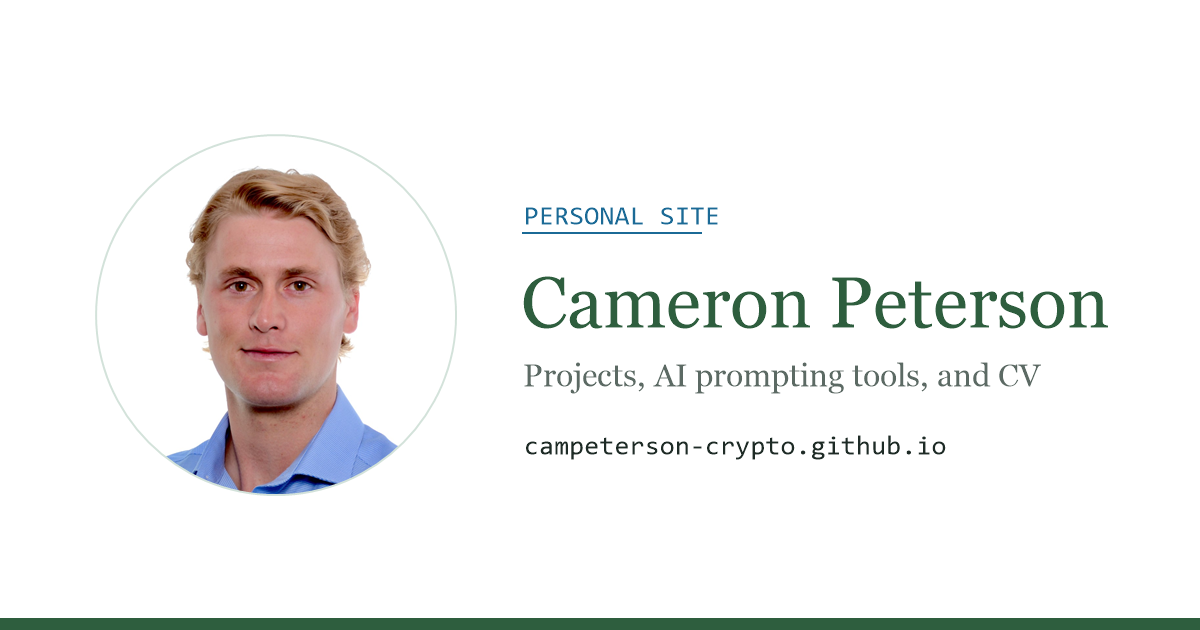
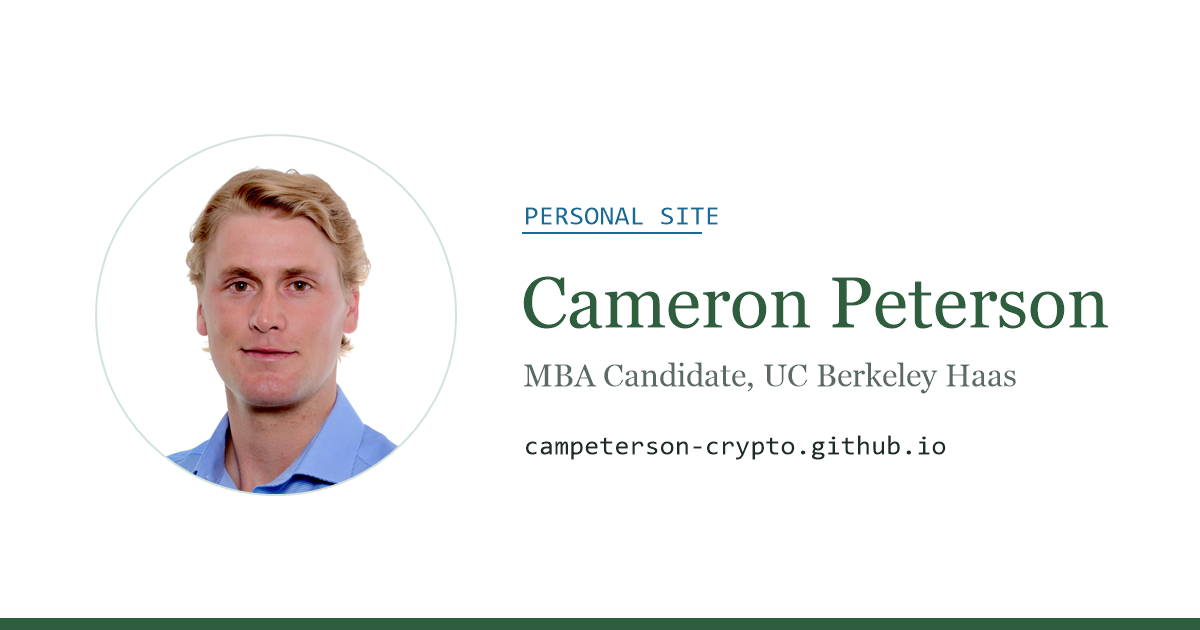
Fill in intro, about, CV, education and projects from resume and LinkedIn

Changed region(s): [[0.4317, 0.573, 0.8633, 0.6333]]

diff --git a/site.js b/site.js
@@ -5,18 +5,57 @@
 const SITE={
   name:"Cameron Peterson",
   photo:"headshot-sq.jpg",
-  intro:"Hi! I'm Cameron. This site is where I keep my projects, a growing set of AI prompting tools, and my CV.",
-  about:[],          // paragraphs, e.g. ["I'm a … at …", "Outside of work I …"]
+  // Home page: keep it conversational, no resume stats.
+  intro:"Hi! I'm Cameron, a first-year MBA student at Berkeley Haas. I came here from finance, most recently private credit in New York, and I've gotten hooked on building small AI tools that make that kind of work faster. This site is where those tools live.",
+  // Top of the CV page: the story, in plain sentences.
+  about:[
+    "I'm an MBA candidate at UC Berkeley's Haas School of Business, focused on corporate strategy and strategic finance roles in tech.",
+    "Before Haas, I spent four years at Deloitte doing FP&A on the Alphabet (Google) account, first as an analyst and then as a consultant leading a small team across the US and India. From there I joined Churchill Asset Management in New York as an Associate on the fund modeling team, where I worked on the firm's first joint venture, fund sales, and the risk and liquidity analysis that went to the CFO and Board.",
+    "Somewhere along the way I got interested in how AI changes finance work. I was in the beta group that tested Deloitte's first generative AI tool for FP&A, and these days I build my own tools with Claude Code, like a Canvas-integrated calendar and assignment tracker for my Haas cohort and the prompting toolkit on this site.",
+    "Outside of work, I once rode a bike 4,350 miles from Seattle to Washington, D.C. to raise money for people with disabilities. I ski (Snowbird and Alta are my favorites), surf, golf, and fly fish whenever I can get to Key West. I'm also on the hunt for the best Dutch crunch sandwich in San Francisco; recommendations welcome."
+  ],
   email:"campeterson44@gmail.com",
   linkedin:"https://www.linkedin.com/in/cameronpeterson4/",
-  experience:[],     // {role:"", org:"", where:"", when:"2024 – Present", points:["", ""]}
-  education:[],      // {degree:"", school:"", when:"", note:""}
-  skills:[],         // ["Excel", "SQL", …]
+  // CV page only: this is where the numbers belong.
+  experience:[
+    {role:"Associate, Fund Modeling",org:"Churchill Asset Management",where:"New York, NY",when:"2025 – 2026",
+     note:"$55B+ middle-market private credit manager",
+     points:[
+      "Spearheaded Churchill's first-ever $150M joint venture and follow-on deal, triangulating eight competitor JV structures from sparse, inconsistent data to build the firm's asset selection framework and a repeatable process for future partnerships",
+      "Led a $320M fund sale from diligence to close with Product, Legal and the Investment Committee, bringing $120M of new capital into the acquiring fund",
+      "Stress-tested tail-risk scenarios across four funds with $6.2B of aggregate exposure; flagged a fund nearing its leverage limit and presented liquidity findings to the CFO and Board, who reduced fund leverage as a result",
+      "Built quarterly budget-vs-actual models in Excel and Power BI for 10+ private credit funds ($33B in fund assets), reducing forecast errors by ~70%",
+      "Owned master models projecting $2.4B in cash flows for 15 investors, and built plug-and-play investor-level models that cut IR turnaround from 5 days to 3"]},
+    {role:"Consultant, Engagement Financial Advisory (FP&A)",org:"Deloitte",where:"New York, NY",when:"2021 – 2025",
+     note:"Alphabet (Google) client account · Consultant 2023–2025, Analyst 2021–2023",
+     points:[
+      "Selected for the beta group that tested and validated the FP&A practice's first generative AI tool for project profitability, cutting scenario analysis time 30% ahead of rollout to 2,000+ practitioners",
+      "Designed and launched a $300M client-rebate program, automating a manual reconciliation process for real-time monitoring and reporting; trained 220 colleagues to drive adoption",
+      "Drove $775K of incremental FY23 revenue across a ~$40M portfolio with a Power BI staffing model that matched subject experts to roles at lowest cost and flagged at-risk projects early",
+      "Partnered with Principals and MDs on monthly variance analysis across the Alphabet account, improving forecast accuracy 20% for revenue, costs and margins",
+      "Led a five-person team of project financial analysts across the US and India, delivering the fewest escalated risk incidents of the six business-unit teams"]},
+    {role:"Finance Intern",org:"Cymbidium Medical",where:"Boulder, CO",when:"2020 – 2021"},
+    {role:"Commercial Real Estate Intern",org:"Tebo Properties",where:"Boulder, CO",when:"2020"}
+  ],
+  education:[
+    {degree:"Master of Business Administration",school:"UC Berkeley, Haas School of Business",when:"2026 – 2028",
+     note:"Berkeley Haas Merit Scholarship · Haas Technology, FinTech, Finance and Blockchain Clubs"},
+    {degree:"B.S.B.A., dual emphasis in Finance and Real Estate",school:"University of Colorado Boulder, Leeds School of Business",when:"2018 – 2021"},
+    {degree:"Study abroad",school:"Charles University, Prague",when:"Spring 2020"}
+  ],
+  extras:[           // {label:"", text:""}
+    {label:"Volunteer",text:"Rode 4,350 miles across 15 states in 67 days, Seattle to Washington, D.C., with The Ability Experience's Journey of Hope to raise funds and awareness for people with disabilities; beat the fundraising goal by $1.5K"},
+    {label:"Leadership",text:"Operations Lead, Deloitte Green Team: ran sustainability initiatives reaching 5,000+ colleagues at Deloitte's Rockefeller Center office, including composting, river clean-ups and guest speakers"}
+  ],
+  skills:["Excel","Power BI","SQL","Financial modeling","FP&A","Private credit","AI & automation","Claude Code"],
+  certs:["SQL for Data Science"],
   tools:[
     {title:"Prompt Builder",url:"toolkit.html",desc:"Pick one of 12 task types, fill in what you know, and copy a structured prompt into any LLM."},
     {title:"Cover Letter Builder",url:"cover-letter.html",desc:"Paste a job description and your background to get a prompt that writes a specific, non-generic cover letter."}
   ],
-  projects:[],       // {title:"", url:"", desc:""}: anything beyond the toolkit
+  projects:[         // {title:"", url:"", desc:""}: anything beyond the toolkit (url optional)
+    {title:"Haas cohort calendar",desc:"A Canvas-integrated calendar and assignment tracker for my MBA cohort, built with Claude Code."}
+  ],
   essays:[]          // {title:"", url:"", date:"Oct 2026"}
 };
 

diff --git a/cv.html b/cv.html
@@ -4,12 +4,12 @@
 <meta charset="utf-8">
 <meta name="viewport" content="width=device-width,initial-scale=1">
 <title>CV | Cameron Peterson</title>
-<meta name="description" content="Cameron Peterson's CV: experience, education and skills.">
+<meta name="description" content="Cameron Peterson's CV: Berkeley Haas MBA candidate with experience in FP&amp;A at Deloitte and private credit at Churchill Asset Management.">
 <link rel="canonical" href="https://campeterson-crypto.github.io/cv.html">
 <meta property="og:type" content="website">
 <meta property="og:site_name" content="Cameron Peterson">
 <meta property="og:title" content="CV | Cameron Peterson">
-<meta property="og:description" content="Cameron Peterson's CV: experience, education and skills.">
+<meta property="og:description" content="Cameron Peterson's CV: Berkeley Haas MBA candidate with experience in FP&amp;A at Deloitte and private credit at Churchill Asset Management.">
 <meta property="og:url" content="https://campeterson-crypto.github.io/cv.html">
 <meta property="og:image" content="https://campeterson-crypto.github.io/og-image.png">
 <meta property="og:image:width" content="1200">
@@ -18,17 +18,18 @@
 <meta name="twitter:card" content="summary_large_image">
 <link rel="icon" href="favicon.svg" type="image/svg+xml">
 <link rel="apple-touch-icon" href="apple-touch-icon.png">
-<link rel="stylesheet" href="style.css?v=4">
+<link rel="stylesheet" href="style.css?v=5">
 </head>
-<body><main id="m"></main><script src="site.js?v=4"></script><script>
+<body><main id="m"></main><script src="site.js?v=5"></script><script>
 shell("CV");
 const S=SITE,has=S.about.length||S.experience.length||S.education.length||S.skills.length;
 const sec=(title,body)=>`<div class="cv-sec"><p class="label">${title}</p>${body}</div>`;
 m.innerHTML=band(`<p class="eyebrow">CV</p><h1>${S.name}</h1>
 ${S.about.length?`<div class="prose lede" style="color:var(--fg);margin-bottom:48px">${S.about.map(p=>`<p>${p}</p>`).join("")}</div>`:""}
-${S.experience.length?sec("Experience",`<ul class="items">${S.experience.map(x=>`<li><span class="when">${x.when}</span><h3>${x.role}</h3><div class="d">${x.org}${x.where?" · "+x.where:""}</div>${x.points&&x.points.length?`<ul>${x.points.map(p=>`<li>${p}</li>`).join("")}</ul>`:""}</li>`).join("")}</ul>`):""}
-${S.education.length?sec("Education",`<ul class="items">${S.education.map(x=>`<li><span class="when">${x.when}</span><h3>${x.degree}</h3><div class="d">${x.school}${x.note?" · "+x.note:""}</div></li>`).join("")}</ul>`):""}
-${S.skills.length?sec("Skills",`<ul class="tags">${S.skills.map(s=>`<li>${s}</li>`).join("")}</ul>`):""}
+${S.experience.length?sec("Experience",`<ul class="items">${S.experience.map(x=>`<li><span class="when">${x.when}</span><h3>${x.role}</h3><div class="d"><b class="org">${x.org}</b>${x.where?" · "+x.where:""}${x.note?`<br>${x.note}`:""}</div>${x.points&&x.points.length?`<ul>${x.points.map(p=>`<li>${p}</li>`).join("")}</ul>`:""}</li>`).join("")}</ul>`):""}
+${S.education.length?sec("Education",`<ul class="items">${S.education.map(x=>`<li><span class="when">${x.when}</span><h3>${x.degree}</h3><div class="d"><b class="org">${x.school}</b>${x.note?`<br>${x.note}`:""}</div></li>`).join("")}</ul>`):""}
+${S.extras&&S.extras.length?sec("Beyond work",`<ul class="items">${S.extras.map(x=>`<li><span class="when">${x.label}</span><div>${x.text}</div></li>`).join("")}</ul>`):""}
+${S.skills.length?sec("Skills",`<ul class="tags">${S.skills.map(s=>`<li>${s}</li>`).join("")}</ul>${S.certs&&S.certs.length?`<p class="d" style="margin-top:14px">Certification: ${S.certs.join(", ")}</p>`:""}`):""}
 ${has?"":`<p class="lede" style="margin-bottom:24px">My full experience and education are on LinkedIn while this page is being filled in.</p>`}
 <div class="btns" style="margin-top:${has?56:0}px"><a class="btn" href="${S.linkedin}">View LinkedIn profile ↗</a></div>`);
 </script></body></html>

diff --git a/index.html b/index.html
@@ -4,12 +4,12 @@
 <meta charset="utf-8">
 <meta name="viewport" content="width=device-width,initial-scale=1">
 <title>Cameron Peterson</title>
-<meta name="description" content="Cameron Peterson's personal site: projects, AI prompting tools, and CV.">
+<meta name="description" content="Cameron Peterson, MBA candidate at UC Berkeley Haas. Projects, AI prompting tools, and CV.">
 <link rel="canonical" href="https://campeterson-crypto.github.io/">
 <meta property="og:type" content="website">
 <meta property="og:site_name" content="Cameron Peterson">
 <meta property="og:title" content="Cameron Peterson">
-<meta property="og:description" content="Cameron Peterson's personal site: projects, AI prompting tools, and CV.">
+<meta property="og:description" content="Cameron Peterson, MBA candidate at UC Berkeley Haas. Projects, AI prompting tools, and CV.">
 <meta property="og:url" content="https://campeterson-crypto.github.io/">
 <meta property="og:image" content="https://campeterson-crypto.github.io/og-image.png">
 <meta property="og:image:width" content="1200">
@@ -18,9 +18,9 @@
 <meta name="twitter:card" content="summary_large_image">
 <link rel="icon" href="favicon.svg" type="image/svg+xml">
 <link rel="apple-touch-icon" href="apple-touch-icon.png">
-<link rel="stylesheet" href="style.css?v=4">
+<link rel="stylesheet" href="style.css?v=5">
 </head>
-<body><main id="m"></main><script src="site.js?v=4"></script><script>
+<body><main id="m"></main><script src="site.js?v=5"></script><script>
 shell("Home");
 const card=t=>`<a class="card" href="${t.url}"><span class="k">Tool</span><span class="t">${t.title}</span><span class="d">${t.desc}</span><span class="go">Open →</span></a>`;
 m.innerHTML=

diff --git a/projects.html b/projects.html
@@ -18,12 +18,12 @@
 <meta name="twitter:card" content="summary_large_image">
 <link rel="icon" href="favicon.svg" type="image/svg+xml">
 <link rel="apple-touch-icon" href="apple-touch-icon.png">
-<link rel="stylesheet" href="style.css?v=4">
+<link rel="stylesheet" href="style.css?v=5">
 </head>
-<body><main id="m"></main><script src="site.js?v=4"></script><script>
+<body><main id="m"></main><script src="site.js?v=5"></script><script>
 shell("Projects");
 const card=t=>`<a class="card" href="${t.url}"><span class="k">Tool</span><span class="t">${t.title}</span><span class="d">${t.desc}</span><span class="go">Open →</span></a>`;
 m.innerHTML=band(`<p class="eyebrow">Projects</p><h1>What I'm building</h1><p class="lede" style="margin-bottom:44px">Small, useful tools, starting with a toolkit for getting better answers out of AI models. Everything runs in your browser; nothing you type is sent anywhere.</p>
 <h3>AI Prompting Toolkit</h3><p class="lede" style="margin-bottom:20px">Structured forms that turn what you know into a clear prompt for any LLM.</p><div class="cards">${SITE.tools.map(card).join("")}</div>
-${SITE.projects.length?`<h3 style="margin-top:56px">Other projects</h3><ul class="items">${SITE.projects.map(p=>`<li><a class="t" href="${p.url}">${p.title}</a><div class="d">${p.desc}</div></li>`).join("")}</ul>`:""}`);
+${SITE.projects.length?`<h3 style="margin-top:56px">Other projects</h3><ul class="items">${SITE.projects.map(p=>`<li>${p.url?`<a class="t" href="${p.url}">${p.title}</a>`:`<span class="t">${p.title}</span>`}<div class="d">${p.desc}</div></li>`).join("")}</ul>`:""}`);
 </script></body></html>

diff --git a/essays.html b/essays.html
@@ -18,9 +18,9 @@
 <meta name="twitter:card" content="summary_large_image">
 <link rel="icon" href="favicon.svg" type="image/svg+xml">
 <link rel="apple-touch-icon" href="apple-touch-icon.png">
-<link rel="stylesheet" href="style.css?v=4">
+<link rel="stylesheet" href="style.css?v=5">
 </head>
-<body><main id="m"></main><script src="site.js?v=4"></script><script>
+<body><main id="m"></main><script src="site.js?v=5"></script><script>
 shell("Essays");
 m.innerHTML=band(`<p class="eyebrow">Essays</p><h1>Writing</h1>${SITE.essays.length?`<ul class="items">${SITE.essays.map(e=>`<li><span class="when">${e.date||""}</span><br><a class="t" href="${e.url}">${e.title}</a></li>`).join("")}</ul>`:`<p class="lede">The first essay is on its way. In the meantime, try the <a href="toolkit.html">Prompt Builder</a>.</p>`}`);
 </script></body></html>

diff --git a/404.html b/404.html
@@ -18,9 +18,9 @@
 <meta name="twitter:card" content="summary_large_image">
 <link rel="icon" href="/favicon.svg" type="image/svg+xml">
 <link rel="apple-touch-icon" href="/apple-touch-icon.png">
-<link rel="stylesheet" href="/style.css?v=4">
+<link rel="stylesheet" href="/style.css?v=5">
 </head>
-<body><main id="m"></main><script src="/site.js?v=4"></script><script>
+<body><main id="m"></main><script src="/site.js?v=5"></script><script>
 NAV.forEach(l=>l[1]="/"+l[1]);SITE.photo="/"+SITE.photo;shell("");
 m.innerHTML=band(`<p class="eyebrow">404</p><h1>Page not found</h1><p class="lede" style="margin-bottom:28px">The page you were looking for doesn't exist or has moved.</p><div class="btns"><a class="btn" href="/">Go home</a><a class="btn ghost" href="/toolkit.html">Open the Prompt Builder</a></div>`);
 </script></body></html>

diff --git a/cover-letter.html b/cover-letter.html
@@ -18,7 +18,7 @@
 <meta name="twitter:card" content="summary_large_image">
 <link rel="icon" href="favicon.svg" type="image/svg+xml">
 <link rel="apple-touch-icon" href="apple-touch-icon.png">
-<link rel="stylesheet" href="style.css?v=4">
+<link rel="stylesheet" href="style.css?v=5">
 </head>
 <body><main id="m">
 <section class="band"><div class="wrap">
@@ -53,7 +53,7 @@
   </aside>
 </div></section>
 </main>
-<script src="site.js?v=4"></script><script>
+<script src="site.js?v=5"></script><script>
 shell("Projects");
 const $=i=>document.getElementById(i),F=["title","company","jd","bg","why","name","tone","len","extra"];
 function build(){

diff --git a/toolkit.html b/toolkit.html
@@ -18,7 +18,7 @@
 <meta name="twitter:card" content="summary_large_image">
 <link rel="icon" href="favicon.svg" type="image/svg+xml">
 <link rel="apple-touch-icon" href="apple-touch-icon.png">
-<link rel="stylesheet" href="style.css?v=4">
+<link rel="stylesheet" href="style.css?v=5">
 </head>
 <body><main id="m">
 <section class="band"><div class="wrap">
@@ -62,7 +62,7 @@
   </aside>
 </div></section>
 </main>
-<script src="site.js?v=4"></script><script>
+<script src="site.js?v=5"></script><script>
 shell("Projects");
 const TECH={
  step:"Think through the problem step by step before giving your final answer.",

diff --git a/style.css b/style.css
@@ -120,3 +120,4 @@ input:focus,select:focus,textarea:focus{outline:2px solid var(--blue);outline-of
   .chip{padding:9px 11px}
 }
 @media(prefers-reduced-motion:reduce){*{transition:none!important}}
+.org{font-weight:500;color:var(--fg)}
